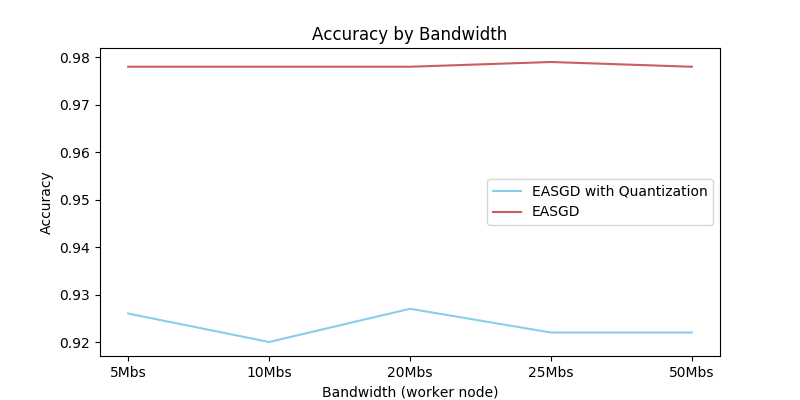
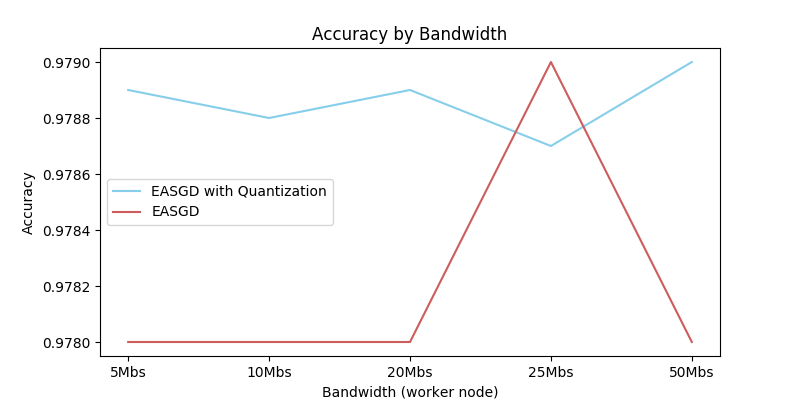
update pics

diff --git a/test2.py b/test2.py
@@ -1,0 +1,64 @@
+import torch
+from utils import dequantize_tensor, quantize_tensor
+from struct import pack, unpack
+
+
+def quantize(x, num_bits):
+    qmin = 0.
+    qmax = 2.**num_bits - 1.
+    min_val, max_val = x.min(), x.max()
+    scale = (qmax - qmin) / (max_val - min_val)
+    scale = 1 if scale == 0 else scale
+    print(scale)
+    q_x = qmin + (x - min_val) * scale
+    q_x.clamp_(qmin, qmax).round_()
+
+    b = pack('f', scale)
+    c = unpack('i', b)[0]
+    x1 = 0x000000FF & c
+    x2 = (0X0000FF00 & c) >> 8
+    x3 = (0x00FF0000 & c) >> 16
+    x4 = (0xFF000000 & c) >> 24
+
+    m_parameter = torch.Tensor([x1, x2, x3, x4, min_val])
+    m_parameter = torch.cat((q_x, m_parameter))
+    m_parameter = m_parameter.round().to(torch.int16)
+    return m_parameter
+
+
+def dequantize(m_parameter):
+    scale1 = int(m_parameter[-5].item())
+    scale2 = int(m_parameter[-4].item())
+    scale3 = int(m_parameter[-3].item())
+    scale4 = int(m_parameter[-2].item())
+
+    scale = 0
+    scale = scale1 | scale
+    scale = (scale2 << 8) | scale
+    scale = (scale3 << 16) | scale
+    scale = (scale4 << 24) | scale
+    scale = pack('i', scale)
+    scale = unpack('f', scale)[0]
+    print(scale)
+    min_val = int(m_parameter[-1].item())
+    q_x = m_parameter[:-5]
+    result = q_x.float() / scale + min_val
+    return result
+
+
+
+a = torch.Tensor([100.2, 23, -12, 1.2])
+b = quantize(a, 8)
+c = dequantize(b)
+print(c)
+
+
+a = torch.Tensor([100.2, 23, -12, 1.2])
+b = quantize_tensor(a, 8)
+c = dequantize_tensor(b)
+print(c)
+
+
+
+
+

diff --git a/pics/easgd_quanti_accuracy/draw.py b/pics/easgd_quanti_accuracy/draw.py
@@ -4,7 +4,7 @@ import matplotlib.pyplot as plt
 
 easgd_quanti_x = [1, 2, 3, 4, 5]
 easgd_x = [1, 2, 3, 4, 5]
-easgd_quanti_y = [0.926, 0.920, 0.927, 0.922, 0.922]
+easgd_quanti_y = [0.9789, 0.9788, 0.9789, 0.9787, 0.9790]
 easgd_y = [0.978, 0.978, 0.978, 0.979, 0.978]
 plt.figure(figsize=(8, 4))
 plt.plot(easgd_quanti_x, easgd_quanti_y, color='SkyBlue', label='EASGD with Quantization')

diff --git a/pics/easgd_quanti_time/draw.py b/pics/easgd_quanti_time/draw.py
@@ -4,7 +4,7 @@ import matplotlib.pyplot as plt
 
 easgd_quanti_x = [1, 2, 3, 4, 5]
 easgd_x = [1, 2, 3, 4, 5]
-easgd_quanti_y = [481, 310, 239, 239, 190]
+easgd_quanti_y = [477, 299, 236, 203, 187]
 easgd_y = [923, 480, 307, 287, 219]
 plt.figure(figsize=(8, 4))
 plt.plot(easgd_quanti_x, easgd_quanti_y, color='SkyBlue', label='EASGD with Quantization')
